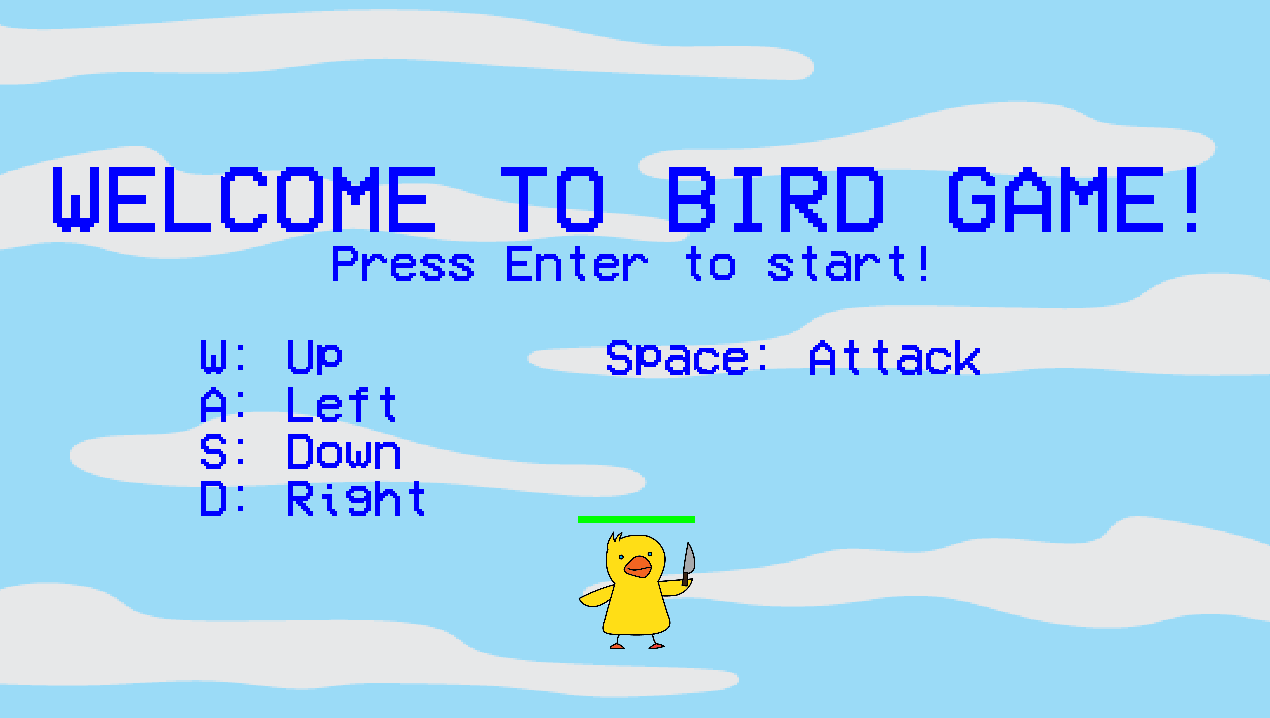
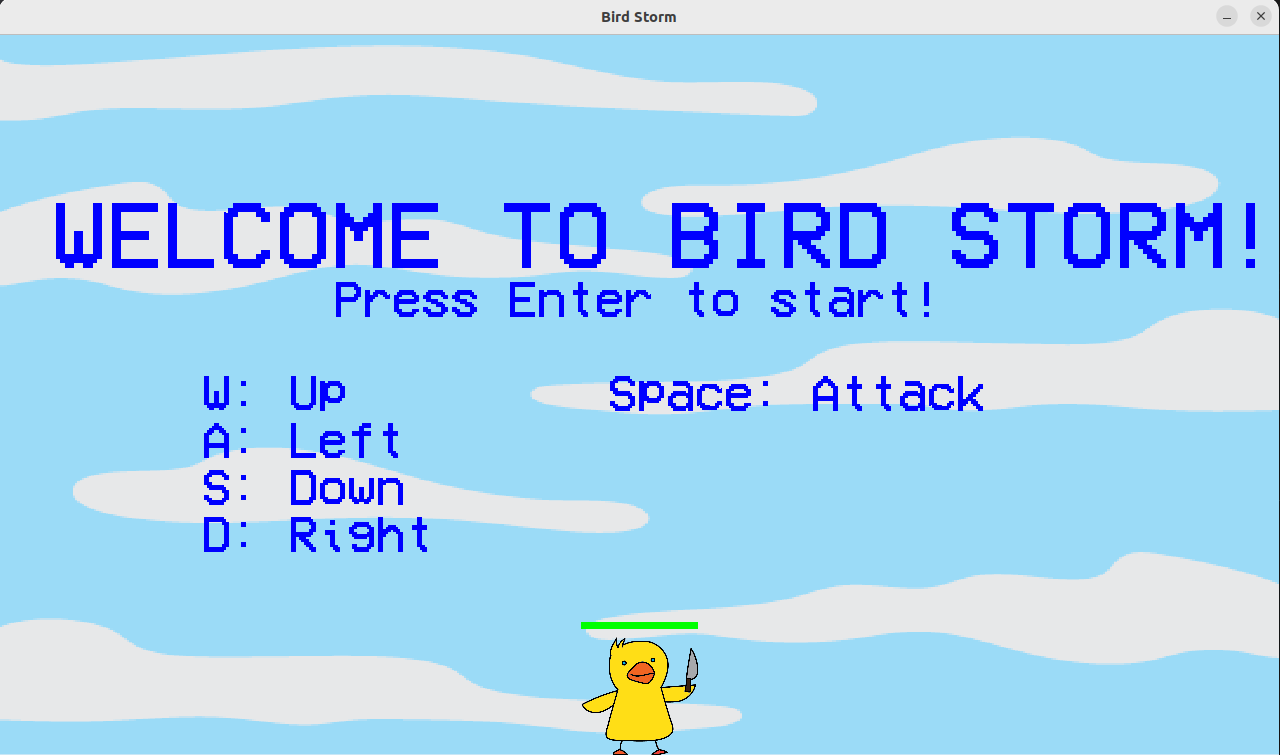
Fix error regarding intro screen

diff --git a/start_game.py b/start_game.py
@@ -20,7 +20,7 @@ background_img = pygame.image.load(BACKGROUND_IMG_PATH)
 background_img = pygame.transform.scale(
     background_img, (SCREEN_WIDTH, SCREEN_HEIGHT)
 )
-welcome_txt = WELCOME_FONT.render("WELCOME TO BIRD GAME!", False, "Blue")
+welcome_txt = WELCOME_FONT.render("WELCOME TO BIRD STORM!", False, "Blue")
 welcome_txt_size = pygame.font.Font.size(WELCOME_FONT, "WELCOME TO BIRD GAME!")
 start_txt = START_FONT.render("Press Enter to start!", False, "Blue")
 start_txt_size = pygame.font.Font.size(START_FONT, "Press Enter to start!")
